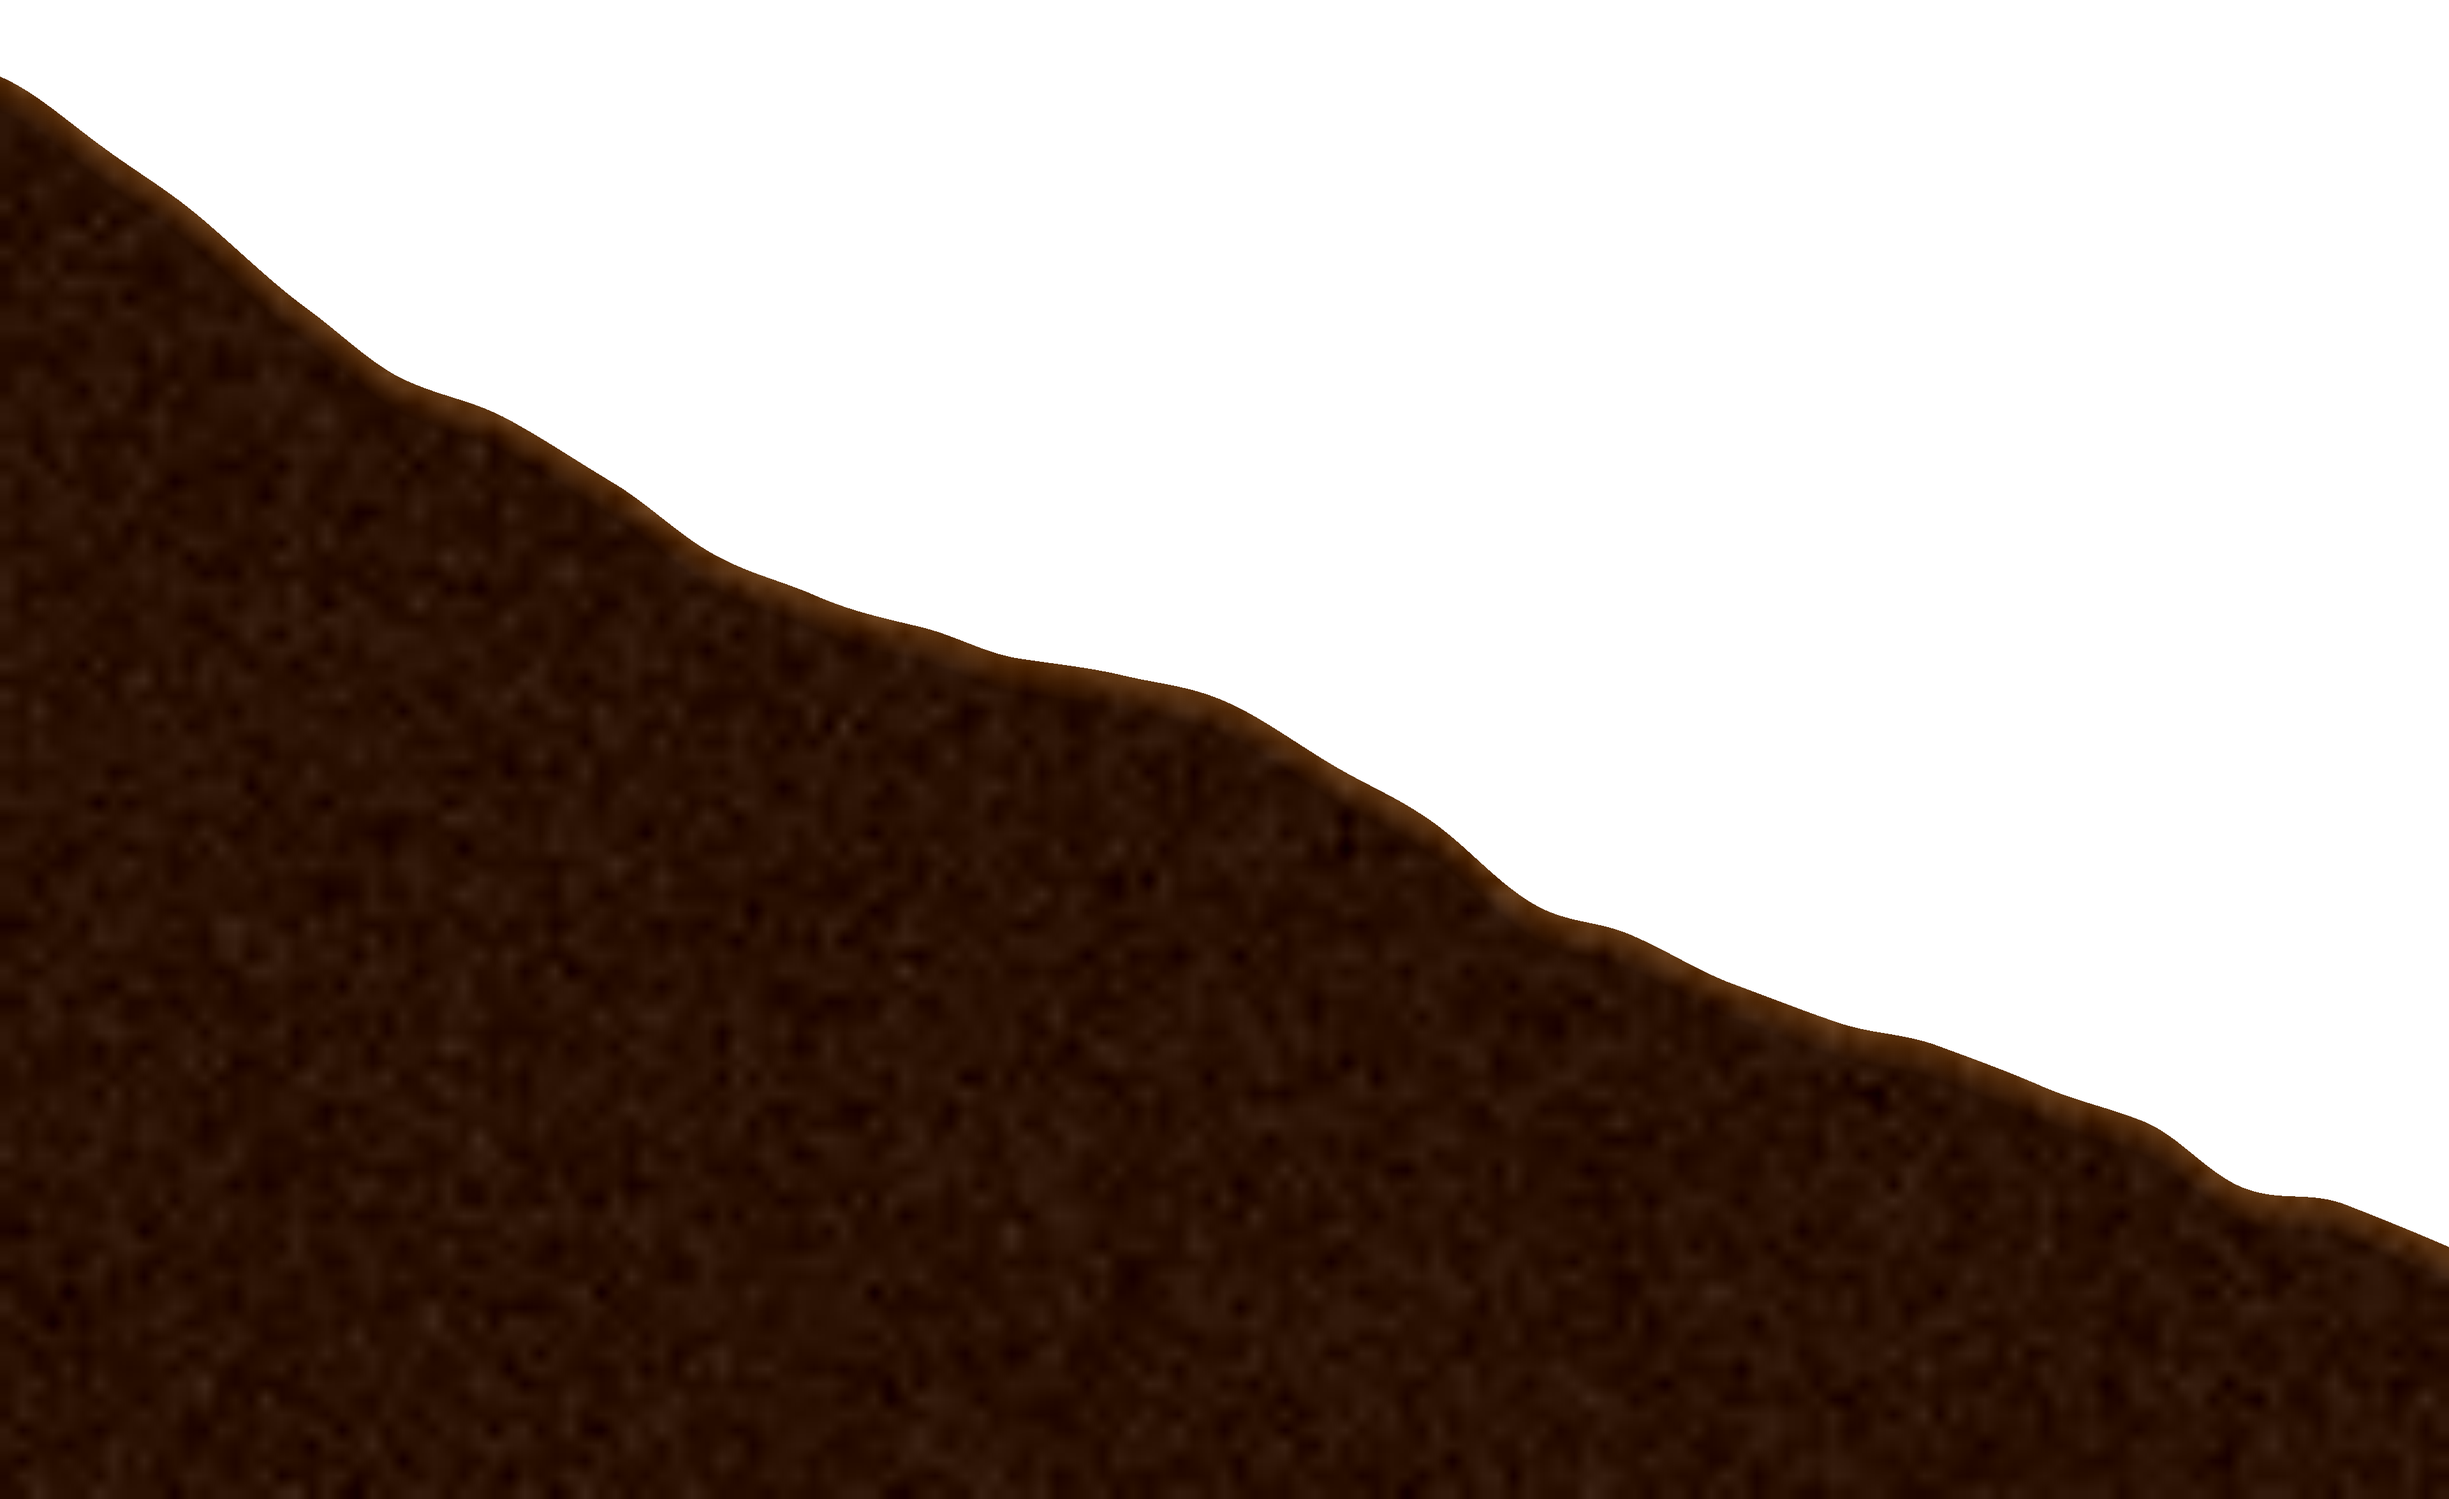
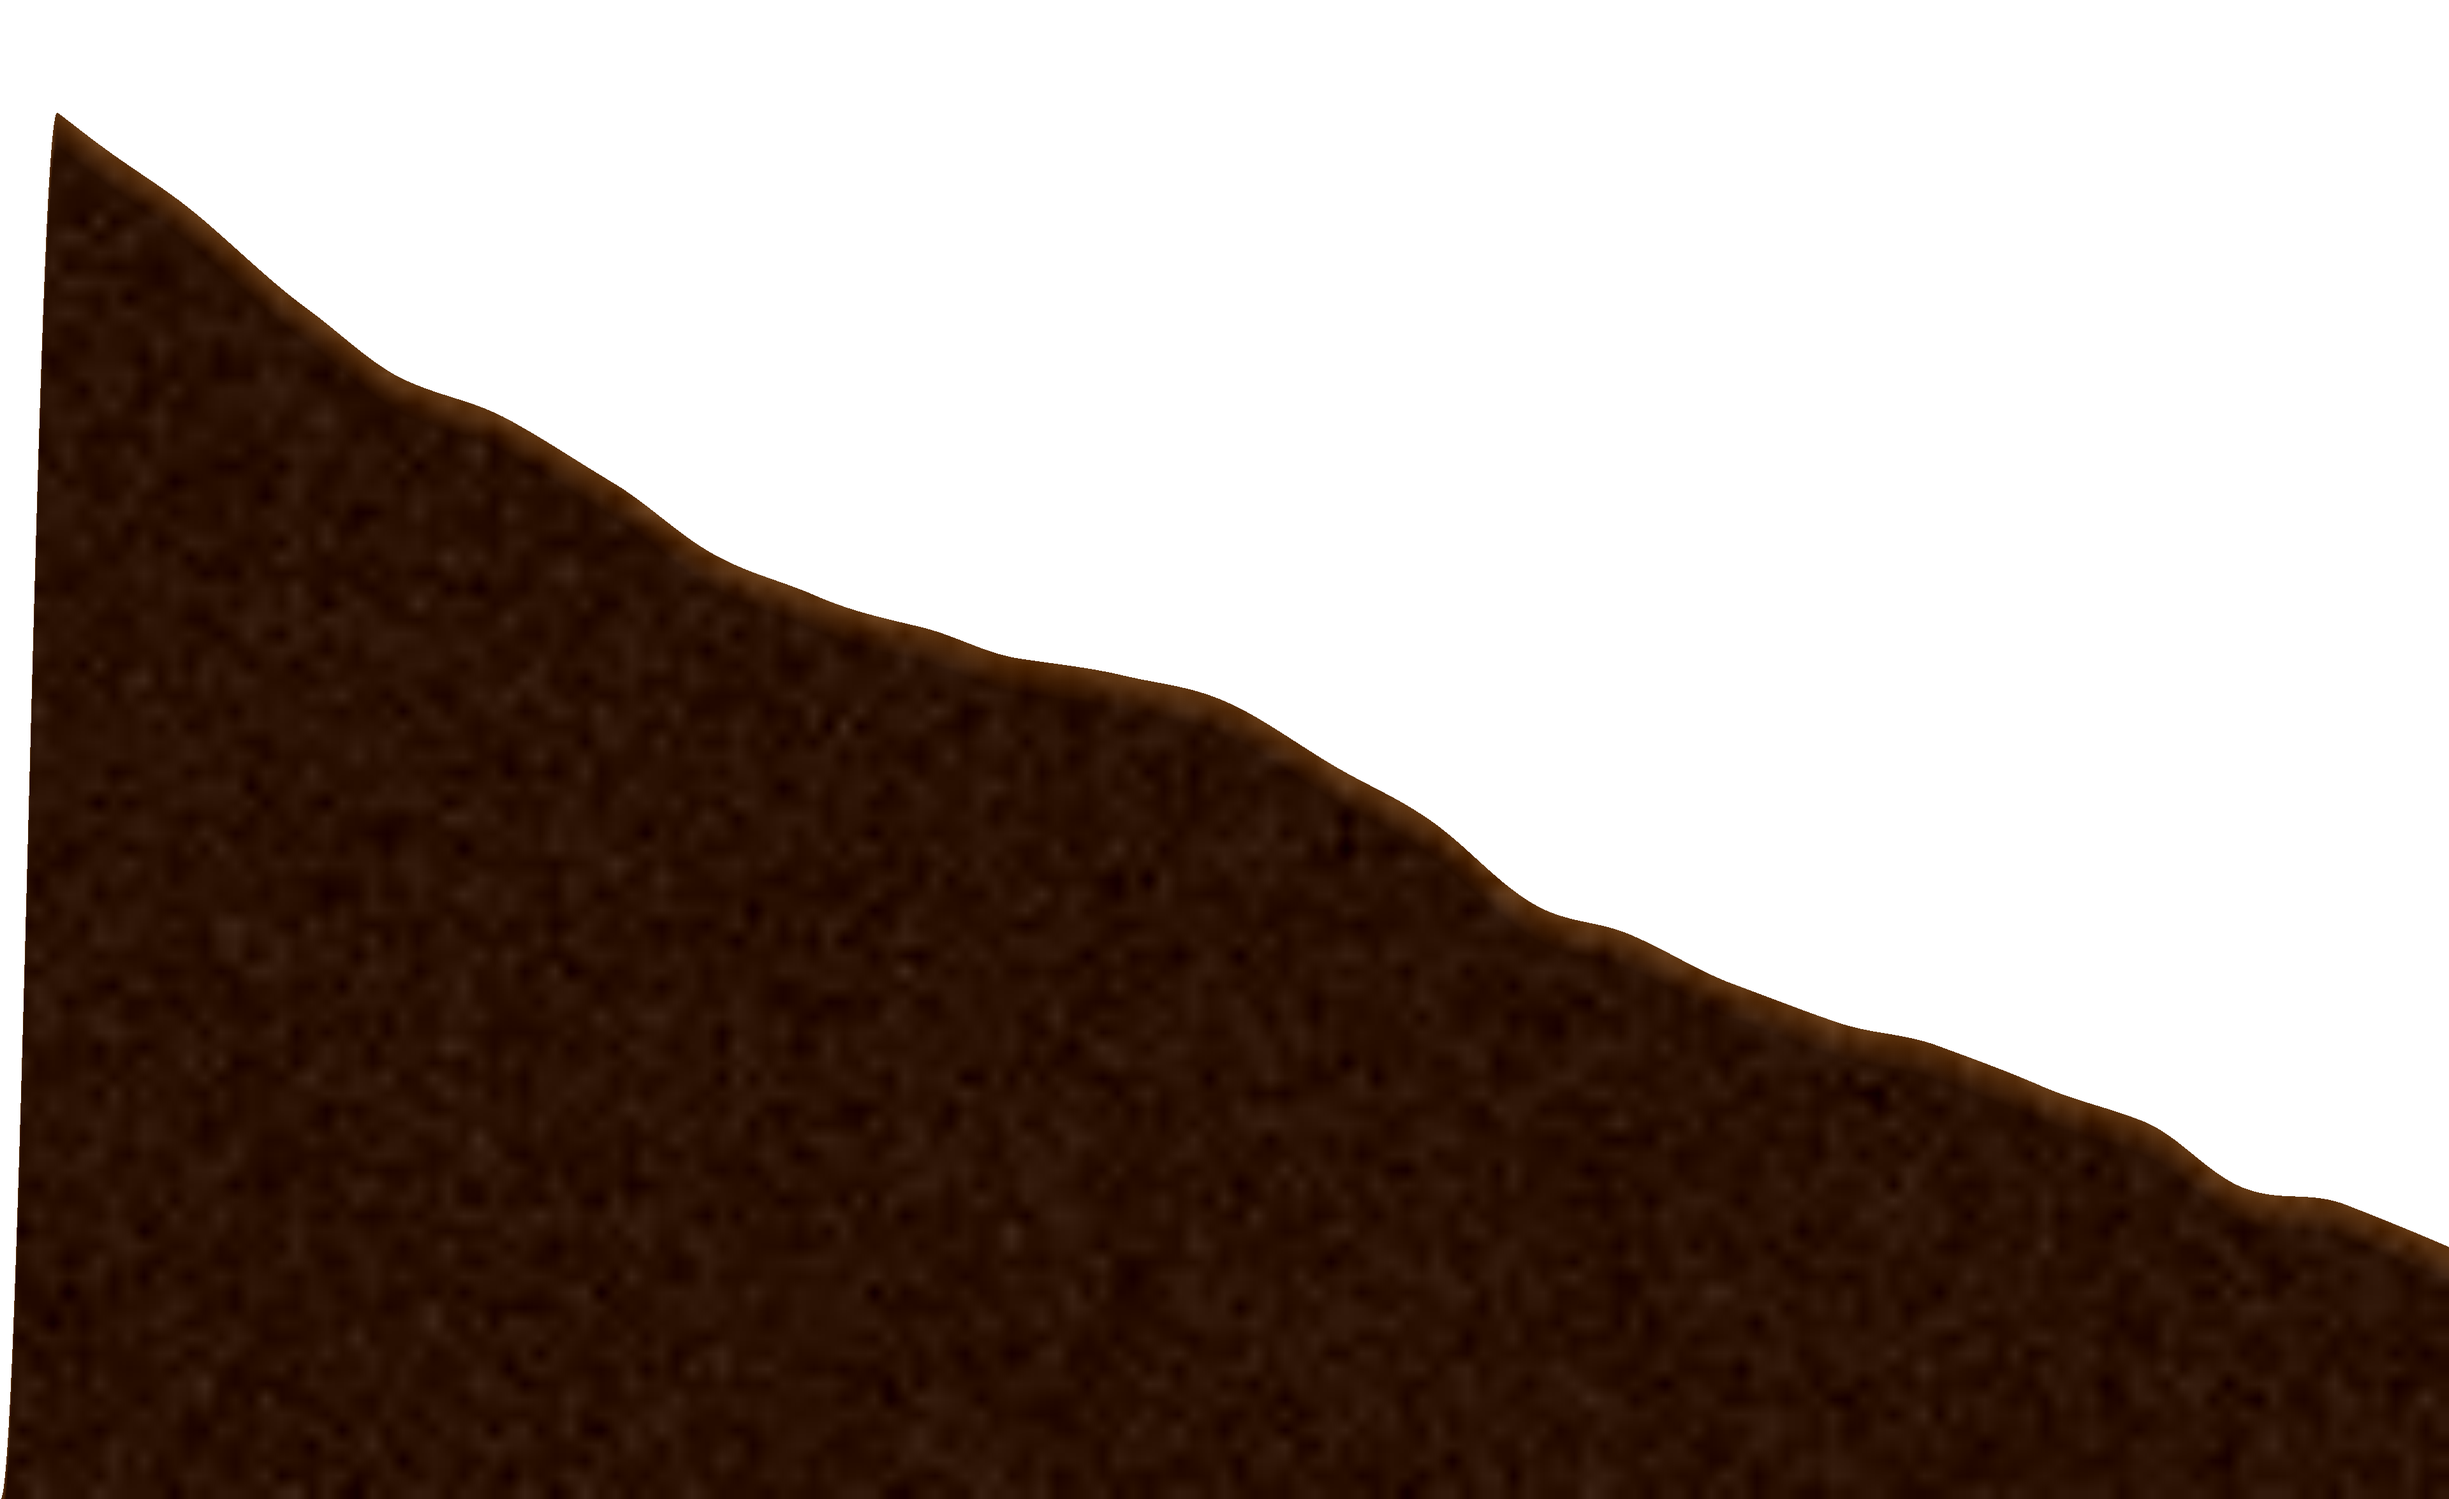
Fiks bane 5: feil parallax-bakgrunn, hardt kutt ved start/slutt
Bakgrunnen brukte en gammel, ubrukt bildesett (background/dirt1.png
og back_cave.png uten "1"-prefiks) i feil storrelse (back_cave.png
er 2000x6000 piksler, vist klemt til halv hoyde) og for fa fliser
(12 mot bane 4 sine 20, gikk tom for bakgrunn for banen var over).
Byttet ut hele bakgrunns-oppsettet med en eksakt kopi av bane 4 sitt.

Terrenget fikk en hard, loddrett klippevegg helt i starten av flis 1
og slutten av flis 4, synlig siden det ikke er noe der til a skjule
den (usynlig ved indre flis-skjoter). Ny apply_edge_taper() i
terreng-scriptet blander bakken jevnt ned mot bunnen over de ytterste
90 pikslene pa disse to kantene, resten av banen urort. 90 piksler
holdt bevisst kort for ikke a spise av avstanden til bakken ved
markens faktiske startpunkt (kolonne ~170).

Bane 6 har ikke fatt samme fiks ennu, ble bedt om spesifikt for bane 5.

Claude-Session: https://claude.ai/code/session_01KM3gBnL2KBiiwgB3FdLDrQ

Changed region(s): [[0.0, 0.0621, 0.0312, 0.9626]]

diff --git a/TIL-ORJAN.md b/TIL-ORJAN.md
@@ -1570,3 +1570,58 @@ byttet fra `lib.shapedefs` (den delte, feile) til `lib.shapedefs6`.
 Luac-sjekket, kjørte fullt syntakssøk over repoet. Ikke testet i
 faktisk nettleser ennå. Bane 7-9 står igjen med samme jobb, ikke gjort
 ennå, ingen konkret grunn til å prioritere én av dem over de andre.
+
+## 2026-09-15, bane 5: feil parallax-bakgrunn, og hardt kutt ved start/slutt
+
+Mathias testet videre og meldte to ting: parallax-bakgrunnen på bane 5
+fungerer ikke som den skal, og ba om samme gradient som bane 4. Så
+også et ønske om å runde av starten og slutten på banen i stedet for
+et hardt kutt.
+
+**Bakgrunnen:** `scenes/level5.lua` sin bakgrunnsoppsett var en KOPI av
+en gammel, ikke lenger brukt versjon: brukte `background/dirt1.png` og
+`background/back_cave.png` (uten "1"-prefiks) i stedet for
+`1dirt1.png`/`1back_cave.png`/`1back_cave1.png`/`1back_cave2.png` som
+bane 1-4 faktisk bruker. Sammenlignet kildebildenes egne
+pikseldimensjoner: `back_cave.png` er 2000×6000 piksler, men ble vist
+med `display.newImageRect(..., 2000, 3000)`, altså klemt sammen til
+HALV høyde, en tydelig forvrengning. `1back_cave.png` (bane 1-4 sin
+versjon) er derimot 1000×3000 og vises riktig strukket til 2000×6000.
+I tillegg hadde bane 5 bare 12 bakgrunnsflis-kopier per lag
+(`background1`-`background12`, samme for "a"/"b"-lagene), mens bane 4
+bruker 20 per lag, altså gikk bane 5 tom for bakgrunn på slutten av
+banen siden kameraet rekker lenger enn 12 fliser dekker (bane 5 sin
+bane er endog litt lengre enn bane 4 sin, pga. det bevisste hullet).
+
+Fikset ved å bytte ut HELE bakgrunns-oppsettet i `scenes/level5.lua`
+(fra `local background = display.newImageRect(...)` til siste
+`camera:add`-kall) med en eksakt kopi av det samme oppsettet fra
+`scenes/level4.lua`: riktig bildefiler, riktig visningsstørrelse, 20
+fliser per lag i stedet for 12. `justerside`/`justeroppned`
+(forskyvningen mellom hver flis) var allerede identiske konstanter i
+begge filene fra før, urørt.
+
+**Hardt kutt ved start/slutt:** hver flis sin bakke fylles solid helt
+ned til bunnen av bildet. Usynlig ved skjøtene mellom fliser (neste
+flis dekker det), men synlig som en rett, loddrett klippevegg helt i
+starten av flis 1 og helt i slutten av flis 4, siden det ikke er noe
+der til å skjule den. Lagt til en `apply_edge_taper()`-funksjon i
+terreng-scriptet: blander kurven jevnt ned mot bunnen av bildet
+(bakken "spisser seg ut" til nesten ingenting) over de ytterste 90
+pikslene på disse to kantene, resten av banen urørt. 90 piksler er
+bevisst kort: verdenskoordinat x=0 (der marken faktisk starter) treffer
+lokal kolonne ca 170 i flis 1, så avrundingen måtte holde seg godt
+under det, ellers ville den også spist av avstanden til bakken ved
+selve startpunktet (sjekket tallmessig, første forsøk på 260 piksler
+gjorde nettopp det, økte gapet fra 423 til over 1500 enheter, satt ned
+til 90 for å unngå akkurat det).
+
+Regenererte `level5/1.png` og `level5/4.png` (de to ytterkantene, 2 og
+3 uendret siden avrundingen ikke rører dem) og `lib/shapedefs5.lua` fra
+den oppdaterte kurven.
+
+Luac-sjekket, kjørte fullt syntakssøk over repoet. Ikke testet i
+faktisk nettleser ennå. Bane 6 fikk IKKE samme avrunding eller
+bakgrunnsfiks ennå, den bruker fortsatt sitt eget (uavrundede, men
+korrekte fra byggingen) oppsett, siden dette ble bedt om spesifikt for
+bane 5.

diff --git a/KODEBASE.md b/KODEBASE.md
@@ -228,9 +228,20 @@ filene gjør.
   (bare 6 rette linjestykker per flis, økt til 40), og selve terrenget
   var for kantete (den gamle boks-filtrerte støyen ga alltid en
   sagtakket rest uansett glattingsbredde, byttet til jevn
-  "value noise" mellom en håndfull kontrollpunkter). Se `TIL-ORJAN.md`
-  for alle detaljene, inkludert generator-scriptet (ligger i en
-  økt-scratchpad, ikke i selve repoet).
+  "value noise" mellom en håndfull kontrollpunkter). Enda en runde,
+  samme dag: parallax-bakgrunnen brukte en gammel, ubrukt bildesett
+  (`background/dirt1.png`/`back_cave.png`, uten "1"-prefiks) i feil
+  størrelse (klemt til halv høyde) og for få fliser (12 mot bane 4 sine
+  20, gikk tom for bakgrunn før banen var over). Hele
+  bakgrunns-oppsettet byttet ut med en eksakt kopi av bane 4 sitt.
+  Terrenget fikk i tillegg en avrundet, ikke hardt avkuttet, start og
+  slutt (`apply_edge_taper()` i generator-scriptet, kun de ytterste 90
+  pikslene på flis 1 sin venstrekant og flis 4 sin høyrekant, resten
+  urørt). Se `TIL-ORJAN.md` for alle detaljene, inkludert
+  generator-scriptet (ligger i en økt-scratchpad, ikke i selve
+  repoet). **Bane 6 har IKKE fått noen av disse to siste fiksene ennå**
+  (samme gamle bakgrunnsoppsett, ingen avrundet kant), siden de ble
+  bedt om spesifikt for bane 5.
 - `level6.lua` — **egen, prosedyregenerert bane, 2026-09-15.** Bygget
   rett med den ferdig fiksede generatoren fra bane 5 (riktig
   visningsskala, 40 kollisjons-linjestykker per flis, jevn
